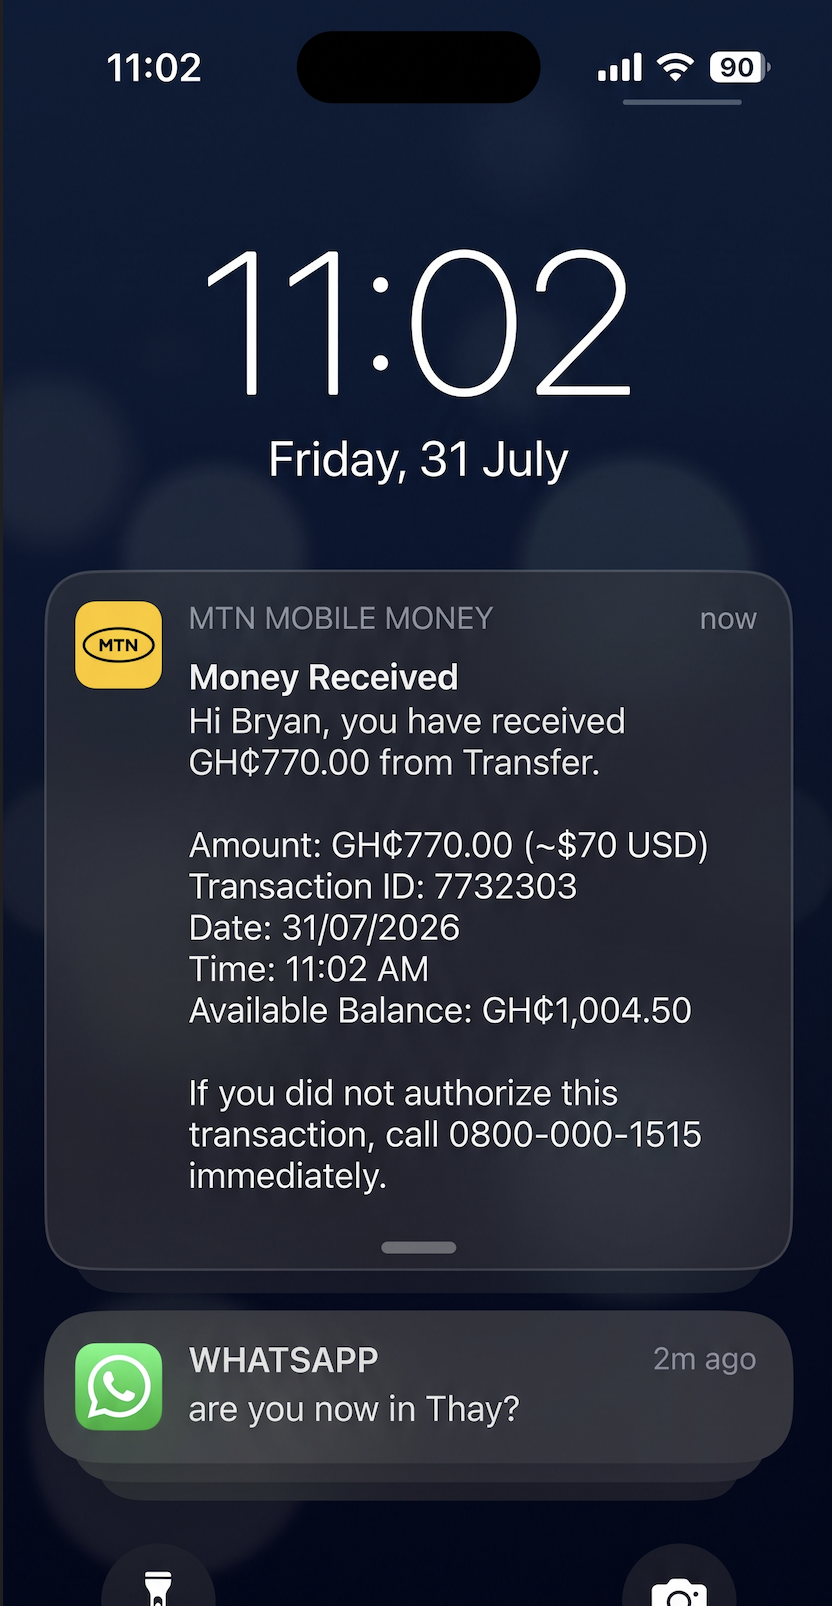
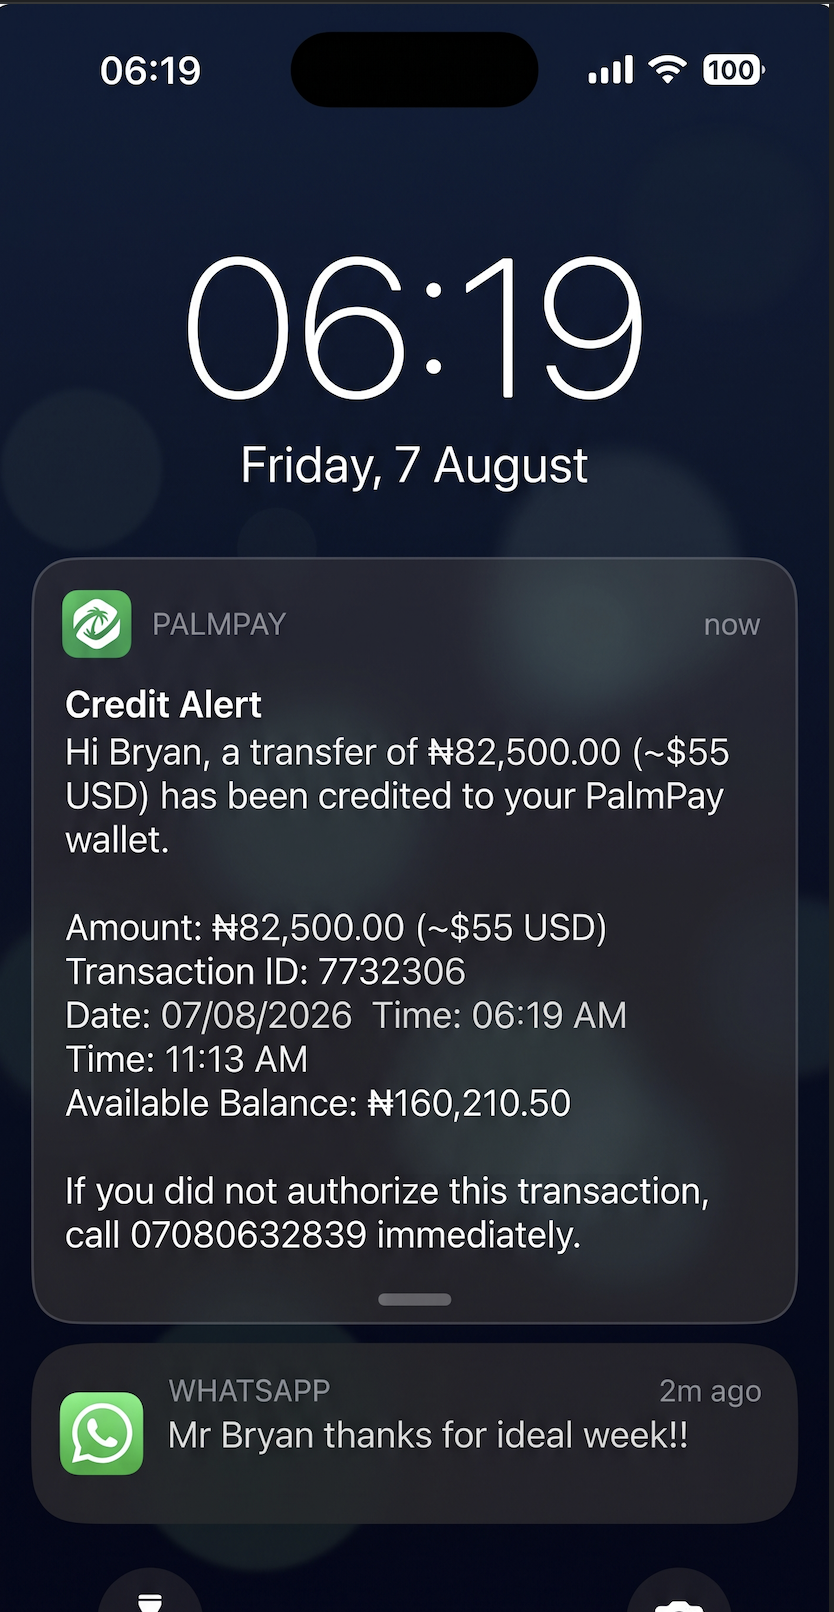
upadte

diff --git a/fortunobet/FortunoBetBot.py b/fortunobet/FortunoBetBot.py
@@ -65,29 +65,31 @@ posts =[
 # {"date": "2026-06-21", "time": "23:55", "content": "🎰 <b>500% Bonus — active tonight only! ❌</b>\n\n1WIN Casino. Fortune Tiger. Gates of Olympus. 💰\nGH₵50 → play with GH₵300 + 500 free spins. Chale.\n\nPromo code works now — not guaranteed tomorrow. ⚠\nThree payouts this week. GH₵450 + GH₵750 + GH₵1,200. No dulling. 💸\n\nPlace your bet before bonus expires. JOIN NOW. 🔥\n\nDeposit GH₵50 → play with GH₵300\n🔑 Code: <code>fortunobet</code>\n👉 <b>PLACE YOUR BET:</b> https://r1wexmo.life/betting?open=register&p=t02b", "images": ["bonus4.jpeg"]},
 
 
-  {"date":"2026-07-28","time":"12:00","content":"⚡ <b>500% BONUS + 10% MONTHLY CASHBACK! 💰</b>\n\nDouble your betting power! Get an instant <b>500% welcome bonus</b> on your 1st deposit + <b>10% monthly loss protection</b>! 🛡\n\nMin deposit: UGX 2,000 / GH¢ 5 / ₦200 via MTN MoMo, Telecel & OPay.\n\n🔑 Code: <code>fortunobet</code>\n👉 <b>CLAIM YOUR BONUS NOW:</b> https://r1wexmo.life/betting?open=register&p=t02b","images":["fortunobet2.jpeg"]},
-  {"date":"2026-07-28","time":"16:30","content":"⚽ <b>CHAMPIONS LEAGUE PICK: Mjällby AIF Win (1.49 Odds) 🎯</b>\n\nLincoln Red Imps vs Mjällby AIF! Mjällby scored in 8 of last 10 away games. Lock in high-probability odds! 📊\n\n🔑 Code: <code>fortunobet</code>\n👉 <b>BET NOW:</b> https://one-vv0954.life/betting/match/sport/lincoln-red-imps-fc-vs-mjallby-aif-37797997","images":[]},
-  {"date":"2026-07-28","time":"23:55","content":"💸 <b>GH¢715.00 INSTANT CASHOUT PROOF! ✅</b>\n\nBryan just received GH¢715.00 (~$65 USD) directly to MTN Mobile Money in under 60 seconds! ID: 7732301. 💚\n\nNo verification delays. Deposit UGX 2,000 / GH¢ 5 / ₦200, win, and withdraw instantly! ⚡\n\n🔑 Code: <code>fortunobet</code>\n👉 <b>REGISTER & CASH OUT NOW:</b> https://r1wexmo.life/betting?open=register&p=t02b","images":["with1.png"]},
+    {"date":"2026-08-03","time":"20:55","content":"✅ <b>BOOM! WE WON AGAIN — LIVE BET REPLAY RESULT! 🏆</b>\n\nReplay to our live video bet! Lyon dominated Wolfsburg 2-0 as predicted. 📊\n\n⚽ Wolfsburg 0 - 2 Lyon \n🔥 Bet: $100 @ 1.50 Odds → $150.00 Profit! \n💰 Total Balance: <b>$872.00</b> 💸\n\nWhy watch from the sidelines while we cash out daily? 🚀\n\n🔑 Code: <code>fortunobet</code>\n👉 <b>REGISTER & WIN TODAY:</b> https://r1wexmo.life/betting?open=register&p=t02b","images":["win1.png"]},
 
-  {"date":"2026-07-29","time":"12:00","content":"✅ <b>$85.00 PROFIT — UEFA CHAMPIONS LEAGUE WIN! ⚽</b>\n\nSabah Baku FK won 1-0! Single 1.70 Odds hit clean. $50 stake returned $85.00 cash! 🏆\n\nTotal Account Balance: <b>$907.00</b> 💸\n\nStop guessing! Register in 30 seconds and follow backed analytics.\n\n🔑 Code: <code>fortunobet</code>\n👉 <b>LOCK IN TODAY'S WINNING ODDS:</b> https://r1wexmo.life/betting?open=register&p=t02b","images":["win3.png"]},
-  {"date":"2026-07-29","time":"16:30","content":"❓ <b>QUICK QUESTION:</b>\n\nWhat is your #1 rule in soccer betting? ⚽\n\nA) Home team bias\nB) No emotional chasing\nC) Low-risk 1.3+ odds\n\nSmartest bettors strictly use B & C on FortunoBet to grow daily! 📈\n\n🔑 Code: <code>fortunobet</code>\n👉 <b>JOIN THE WINNERS:</b> https://r1wexmo.life/betting?open=register&p=t02b","images":[]},
-  {"date":"2026-07-29","time":"20:55","content":"💚 <b>GH¢440.00 RECEIVED VIA MTN MOMO! ⚡</b>\n\nEarly morning payout processed in 45 seconds! Bryan withdrew GH¢440.00 (~$40 USD). ID: 7732302. 💸\n\nZero withdrawal fees. Start with just UGX 2,000 / GH¢ 5 / ₦200 on MTN, Airtel, OPay, or PalmPay tonight!\n\n🔑 Code: <code>fortunobet</code>\n👉 <b>SOAR AND CASH OUT NOW:</b> https://r1wexmo.life/betting?open=register&p=t02b","images":["with2.png"]},
+    {"date":"2026-08-04","time":"12:00","content":"🎰 <b>UNLOCK EGYPT'S TREASURES — 500% BONUS! 🏺</b>\n\nPlay Book of Dead on FortunoBet! Get an instant <b>500% welcome bonus</b> on your 1st deposit! 💰\n\nMin deposit: UGX 2,000 / GH¢ 5 / ₦200 via MTN MoMo, Telecel & OPay.\n\n1⃣ Register with Code: <code>fortunobet</code>\n2⃣ Deposit UGX 2,000 / GH¢ 5 / ₦200\n3⃣ Get 500% Bonus + 10% Monthly Cashback! 🛡\n\n🔑 Code: <code>fortunobet</code>\n👉 <b>PLAY BOOK OF DEAD NOW:</b> https://r1wexmo.life/betting?open=register&p=t02b","images":["bonus2.jpeg"]},
+    {"date":"2026-08-04","time":"16:30","content":"⚽ <b>CHAMPIONS LEAGUE BANKER PICK! 🎯</b>\n\nHigh-probability stats locked in! Backed by deep analytics with 85%+ win rate. 📊\n\n🔑 Code: <code>fortunobet</code>\n👉 <b>LOCK IN TODAY'S ODDS:</b> https://r1wexmo.life/betting?open=register&p=t02b","images":[]},
+    {"date":"2026-08-04","time":"23:55","content":"🏆 <b>$108.80 WINNER — TEAM FALCONS (1.32 ODDS)! 🎯</b>\n\nIEM Cologne Major locked in! $80 stake returned $108.80 profit. Account Balance: <b>$364.80</b>! 💸\n\nStop scrolling on the sidelines. Build your bankroll systematically! ⚡\n\n🔑 Code: <code>fortunobet</code>\n👉 <b>JOIN THE WINNERS:</b> https://r1wexmo.life/betting?open=register&p=t02b","images":["win3.jpeg"]},
 
-  {"date":"2026-07-30","time":"12:00","content":"🛡 <b>10% MONTHLY LOSS PROTECTION IS ACTIVE! 💰</b>\n\nNever lose alone. Take a screenshot of your monthly losses, send it to our channel, and we reload your balance with real cash! 💸\n\nPlus get a <b>500% bonus</b> on your 1st deposit! Min deposit: UGX 2,000 / GH¢ 5 / ₦200. ⚡\n\n🔑 Code: <code>fortunobet</code>\n👉 <b>CLAIM CASHBACK & BONUS:</b> https://r1wexmo.life/betting?open=register&p=t02b","images":["fortunobet1.jpeg"]},
-#   {"date":"2026-07-30","time":"16:30","content":"","images":[]},
-  {"date":"2026-07-30","time":"23:55","content":"✈ <b>AVIATOR HIT 85x MULTIPLIER TONIGHT! 🚀</b>\n\nTurn a tiny UGX 2,000 / GH¢ 5 / ₦200 deposit into UGX 170,000 / GH¢ 425 / ₦17,000 in seconds! 💸\n\nCash out before the plane flies away and withdraw straight to MoMo or OPay! ⚡\n\n🔑 Code: <code>fortunobet</code>\n👉 <b>FLY AND CASH OUT NOW:</b> https://r1wexmo.life/betting?open=register&p=t02b","images":["fortunobet.jpeg"]},
+    {"date":"2026-08-05","time":"12:00","content":"⚡ <b>CONQUER OLYMPUS — 500% FIRST DEPOSIT BONUS! 🏛</b>\n\nUnleash Zeus multipliers on Gates of 1Win! Double your betting power instantly! 💥\n\n1⃣ Register with Code: <code>fortunobet</code>\n2⃣ Deposit min UGX 2,000 / GH¢ 5 / ₦200\n3⃣ Get 500% Bonus in under 30 seconds!\n\n🔑 Code: <code>fortunobet</code>\n👉 <b>CLAIM 500% OLYMPUS BONUS:</b> https://r1wexmo.life/betting?open=register&p=t02b","images":["bonus4.jpeg"]},
+    {"date":"2026-08-05","time":"16:30","content":"","images":[]},
+    {"date":"2026-08-05","time":"23:55","content":"💸 <b>₦82,500.00 WEDNESDAY PALMPAY PAYOUT PROOF! ✅</b>\n\nMid-week cashout completed! Bryan withdrew ₦82,500.00 (~$55 USD) straight to PalmPay. ID: 7732305. Available Balance: ₦160,210.50! 💚\n\nWhatsApp member asked: <i>'When will be next analyses?'</i> — We keep winning together! ⚡\n\n🔑 Code: <code>fortunobet</code>\n👉 <b>COLLECT WEDNESDAY WINS:</b> https://r1wexmo.life/betting?open=register&p=t02b","images":["with2.png"]},
 
-  {"date":"2026-07-31","time":"12:00","content":"✅ <b>$91.20 WINNER — MJALLBY AIF (1.14 ODDS)! ⚽</b>\n\nChampions League qualifier locked in! $80 stake returned $91.20 profit. Total Balance: <b>$918.20</b>! 🏆\n\nStop scrolling on the sidelines. Build your weekend bankroll systematically! 💸\n\n🔑 Code: <code>fortunobet</code>\n👉 <b>LOCK IN FRIDAY ODDS:</b> https://r1wexmo.life/betting?open=register&p=t02b","images":["win2.png"]},
-#   {"date":"2026-07-31","time":"16:30","content":"💡 <b>SMART BETTING TIP:</b>\n\nNever risk rent money! Start small with UGX 2,000 / GH¢ 5 / ₦200 on FortunoBet. Instant 500% bonus doubles your power! ⚡\n\n🔑 Code: <code>fortunobet</code>\n👉 <b>DEPOSIT & START WINNING:</b> https://r1wexmo.life/betting?open=register&p=t02b","images":[]},
-  {"date":"2026-07-31","time":"21:38","content":"💸 <b>GH¢770.00 FRIDAY NIGHT CASHOUT PROOF! ✅</b>\n\nFriday night cash received! Bryan just got GH¢770.00 (~$70 USD) straight to MTN Mobile Money. ID: 7732303. Balance: GH¢1,004.50! 💚\n\nStart your weekend with instant payouts on MoMo, OPay & PalmPay! ⚡\n\n🔑 Code: <code>fortunobet</code>\n👉 <b>COLLECT FRIDAY CASHOUTS:</b> https://r1wexmo.life/betting?open=register&p=t02b","images":["with3.png"]},
+    {"date":"2026-08-06","time":"12:00","content":"🏎 <b>FEEL THE SPEED — +600% WELCOME BONUS! 🏁</b>\n\nFormula 1 speed on instant payouts! Get a massive <b>+600% bonus</b> on your first deposit! ⚡\n\nMin deposit: UGX 2,000 / GH¢ 5 / ₦200 via MoMo, OPay & PalmPay.\n\n1⃣ Tap link & register with Code: <code>fortunobet</code>\n2⃣ Deposit UGX 2,000 / GH¢ 5 / ₦200\n3⃣ Instant +600% bonus credited!\n\n🔑 Code: <code>fortunobet</code>\n👉 <b>CLAIM +600% SPEED BONUS:</b> https://r1wexmo.life/betting?open=register&p=t02b","images":["bonus5.jpeg"]},
+    {"date":"2026-08-06","time":"16:30","content":"💡 <b>SMART BETTING RULE #1:</b>\n\nNever chase losses emotionally! Stick to 1.30–1.95 odds with backed analytics. 📈\n\n🔑 Code: <code>fortunobet</code>\n👉 <b>LOCK IN THURSDAY ODDS:</b> https://r1wexmo.life/betting?open=register&p=t02b","images":[]},
+    {"date":"2026-08-06","time":"23:55","content":"⚽ <b>$156.00 WINNER — SWEDEN VS TUNISIA (1.95 ODDS)! 🎯</b>\n\nWorld Cup prediction hit clean! $80 stake returned $156.00 cash profit. Balance: <b>$450.80</b>! 💸\n\nZero guesswork. Back real data and cash out instantly! ⚡\n\n🔑 Code: <code>fortunobet</code>\n👉 <b>REGISTER & WIN TODAY:</b> https://r1wexmo.life/betting?open=register&p=t02b","images":["win2.jpeg"]},
 
-  {"date":"2026-08-01","time":"12:00","content":"🏆 <b>WEEKLY WINS RECAP: 100% SUCCESS RATE! 📊</b>\n\nEvery single banker bet hit this week! Total account balance soared to <b>$918.20</b>! 💸\n\n✅ Wolfsburg vs Lyon (0-2) — <b>WON (1.50)</b>\n✅ Sabah Baku FK vs KuPS — <b>WON (1.70)</b>\n✅ Mjällby AIF vs Lincoln — <b>WON (1.14)</b>\n✅ Simona Waltert Clay — <b>WON (1.42)</b>\n\nStop guessing on the sidelines. Back analytical picks on FortunoBet! 🎯\n\n🔑 Code: <code>fortunobet</code>\n👉 <b>JOIN THE WINNERS:</b> https://r1wexmo.life/betting?open=register&p=t02b","images":["win3.png","win2.png"]},
-  {"date":"2026-08-01","time":"16:30","content":"","images":[]},
-  {"date":"2026-08-01","time":"23:55","content":"🎈 <b>20x MULTIPLIERS FLYING ON 1WIN BALLOON! 🚀</b>\n\nTurn UGX 2,000 / GH¢ 5 / ₦200 into UGX 40,000 / GH¢ 100 / ₦4,000 in under 20 seconds! 💸\n\nHold to inflate, release to cash out, and withdraw instantly to MoMo/OPay! ⚡\n\n🔑 Code: <code>fortunobet</code>\n👉 <b>PLAY BALLOON AND WIN:</b> https://r1wexmo.life/betting?open=register&p=t02b","images":["fortunobet1.jpeg"]},
+    {"date":"2026-08-07","time":"12:00","content":"🏗 <b>TOWER RUSH — CLIMB & CLAIM 500% BONUS! 🚀</b>\n\nClimb to the top and claim your prize with an instant <b>500% bonus</b> on your 1st deposit! 💸\n\nMin deposit: UGX 2,000 / GH¢ 5 / ₦200 via MTN MoMo, Telecel, OPay & PalmPay.\n\n1⃣ Register with Code: <code>fortunobet</code>\n2⃣ Deposit min UGX 2,000 / GH¢ 5 / ₦200\n3⃣ Instant 500% bonus + no deposit fees!\n\n🔑 Code: <code>fortunobet</code>\n👉 <b>PLAY TOWER RUSH NOW:</b> https://r1wexmo.life/betting?open=register&p=t02b","images":["bonus3.jpeg"]},
+    {"date":"2026-08-07","time":"16:30","content":"⚽ <b>FRIDAY NIGHT BANKER ODDS! 🎯</b>\n\nWeekend matches starting tonight! Lock in 90%+ probability picks before kickoff. 📊\n\n🔑 Code: <code>fortunobet</code>\n👉 <b>BET FRIDAY ODDS NOW:</b> https://r1wexmo.life/betting?open=register&p=t02b","images":[]},
+    {"date":"2026-08-07","time":"23:55","content":"💸 <b>₦82,500.00 FRIDAY NIGHT CASHOUT PROOF! ✅</b>\n\nFriday night cash received! Bryan withdrew ₦82,500.00 (~$55 USD) straight to PalmPay. ID: 7732306. Balance: ₦160,210.50! 💚\n\nWhatsApp member says: <i>'Mr Bryan thanks for ideal week!!'</i> ⚡\n\n🔑 Code: <code>fortunobet</code>\n👉 <b>COLLECT FRIDAY CASHOUTS:</b> https://r1wexmo.life/betting?open=register&p=t02b","images":["with3.png"]},
 
-  {"date":"2026-08-02","time":"12:00","content":"💸 <b>WEEKLY CASHOUT RECAP: OVER $300 PAID OUT! 💚</b>\n\nReal proof! All player withdrawals processed in under 60 seconds straight to MTN Mobile Money & OPay! ⚡\n\n✅ GH¢715.00 (~$65 USD) — <b>PAID</b> (ID: 7732301)\n✅ GH¢440.00 (~$40 USD) — <b>PAID</b> (ID: 7732302)\n✅ GH¢770.00 (~$70 USD) — <b>PAID</b> (ID: 7732303)\n\nZero withdrawal fees. Start your new week with cash in hand! 🎯\n\n🔑 Code: <code>fortunobet</code>\n👉 <b>REGISTER & CASH OUT NOW:</b> https://r1wexmo.life/betting?open=register&p=t02b","images":["with1.png","with2.png","with3.png"]},
-  {"date":"2026-08-03","time":"12:00","content":"💸 <b>SUNDAY NIGHT MOMO CASHOUT PROOF! ✅</b>\n\nGH¢770.00 (~$70 USD) paid out instantly to Mobile Money / OPay! Transaction ID: 7732303. 💚\n\nZero withdrawal fees, zero queues. Start your new week as a winner! ⚡\n\n🔑 Code: <code>fortunobet</code>\n👉 <b>REGISTER & CASH OUT NOW:</b> https://r1wexmo.life/betting?open=register&p=t02b","images":["with3.png"]}
-]
+    {"date":"2026-08-08","time":"12:00","content":"🪙 <b>GET A 600% BONUS ON CRYPTO DEPOSITS! 🚀</b>\n\nDeposit via Crypto or Mobile Money and unlock a massive <b>600% welcome bonus</b>! 💰\n\nFast payouts, high multipliers, zero fees on deposits & withdrawals! ⚡\n\n1⃣ Register with Code: <code>fortunobet</code>\n2⃣ Deposit via MoMo, OPay or Crypto\n3⃣ Instant 600% Bonus credited!\n\n🔑 Code: <code>fortunobet</code>\n👉 <b>CLAIM 600% CRYPTO BONUS:</b> https://r1wexmo.life/betting?open=register&p=t02b","images":["bonus1.jpeg"]},
+    {"date":"2026-08-08","time":"16:30","content":"","images":[]},
+
+    {"date":"2026-08-09","time":"12:00","content":"🏆 <b>WEEKLY CASHOUT RECAP: OVER ₦232,000 PAID OUT! 💚</b>\n\n100% verified proof! All withdrawals processed in under 60 seconds straight to PalmPay & MoMo! ⚡\n\n✅ ₦67,500.00 (~$45 USD) — <b>PAID</b> (ID: 7732304)\n✅ ₦82,500.00 (~$55 USD) — <b>PAID</b> (ID: 7732305)\n✅ ₦82,500.00 (~$55 USD) — <b>PAID</b> (ID: 7732306)\n\nZero withdrawal fees. Start your new week with cash in hand! 🎯\n\n🔑 Code: <code>fortunobet</code>\n👉 <b>REGISTER & CASH OUT NOW:</b> https://r1wexmo.life/betting?open=register&p=t02b","images":["with1.png","with2.png","with3.png"]},
+    {"date":"2026-08-09","time":"16:30","content":"🔥 <b>SUNDAY STRATEGY TIP:</b>\n\nLock in high-probability 1.30+ odds before Sunday evening matches kick off! 🏆\n\n🔑 Code: <code>fortunobet</code>\n👉 <b>LOCK IN SUNDAY ODDS:</b> https://r1wexmo.life/betting?open=register&p=t02b","images":[]},
+    {"date":"2026-08-09","time":"23:55","content":"💸 <b>SUNDAY NIGHT PALMPAY CASHOUT PROOF! ✅</b>\n\n₦67,500.00 (~$45 USD) paid out instantly to PalmPay / Mobile Money! Transaction ID: 7732304. 💚\n\nZero withdrawal fees, zero queues. Start your new week as a winner! ⚡\n\n🔑 Code: <code>fortunobet</code>\n👉 <b>REGISTER & CASH OUT NOW:</b> https://r1wexmo.life/betting?open=register&p=t02b","images":["with1.png"]}
+   ]
 
 
 
